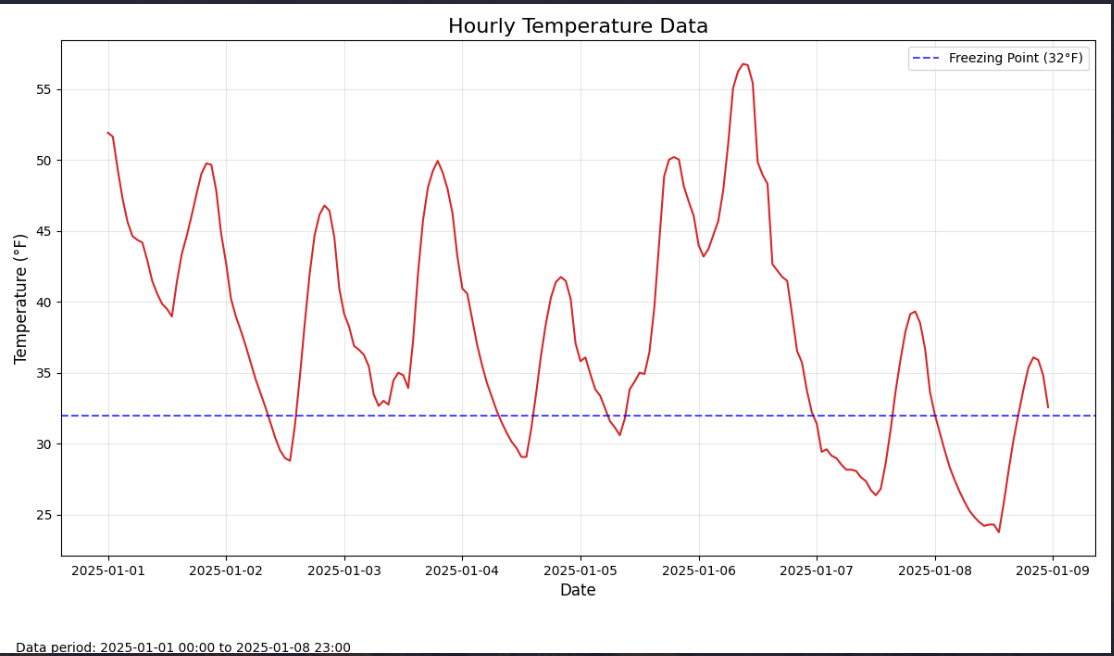
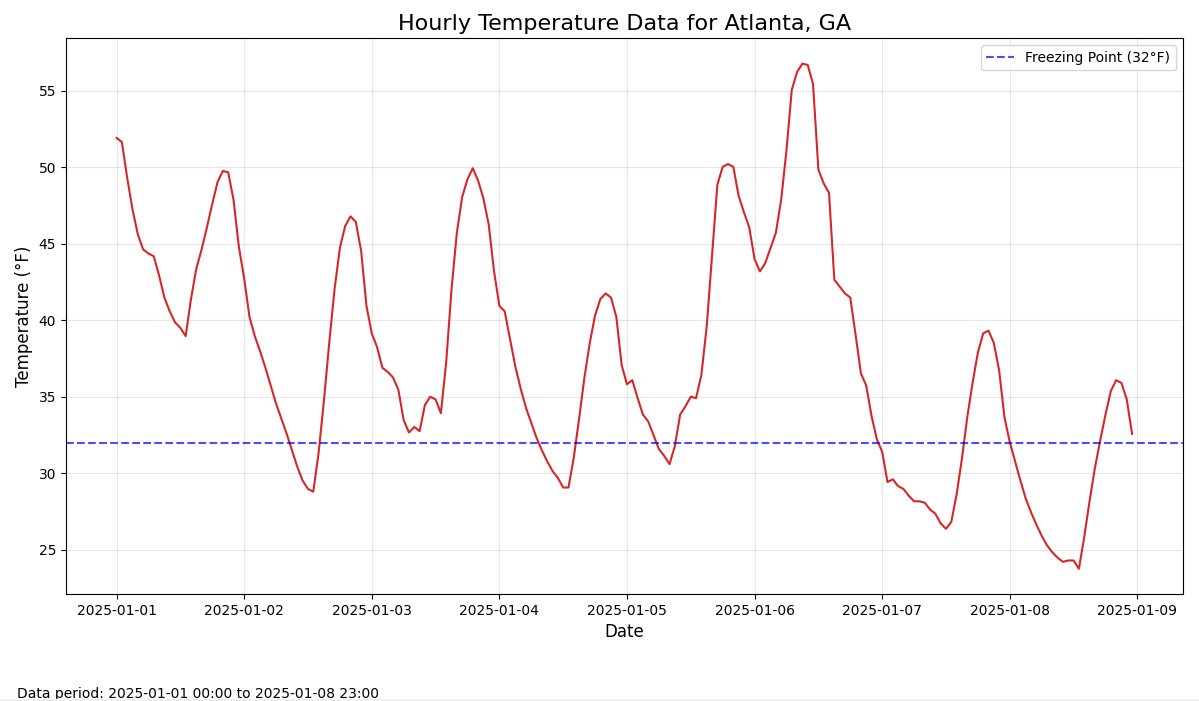
README.md

diff --git a/trends/temppointplotter.py b/trends/temppointplotter.py
@@ -91,7 +91,7 @@ def temppointplotter():
     # Plot the temperature data
     plt.figure(figsize=(12, 7))
     plt.plot(hourly_dataframe['date'], hourly_dataframe['temperature_2m'], color='tab:red')
-    plt.title(f'Hourly Temperature Data', fontsize=16)
+    plt.title(f'Hourly Temperature Data for {city}, {state}', fontsize=16)
     plt.xlabel('Date', fontsize=12)
     plt.ylabel('Temperature (°F)', fontsize=12)
     plt.grid(True, alpha=0.3)

diff --git a/README.md b/README.md
@@ -8,8 +8,6 @@ A CLI/web app that fetches archived weather data to analyze temperature, humidit
 `python main.py`
 
 ## Weather Plots
-![WeatherPlotPrompt.png](WeatherPlotPrompt.png)
 ![WeatherPlotGraph.png](WeatherPlotGraph.png)
 ## Weather Trends
-![WeatherTrendPrompt.png](WeatherTrendPrompt.png)
 ![WeatherTrendGraph.png](WeatherTrendGraph.png)
